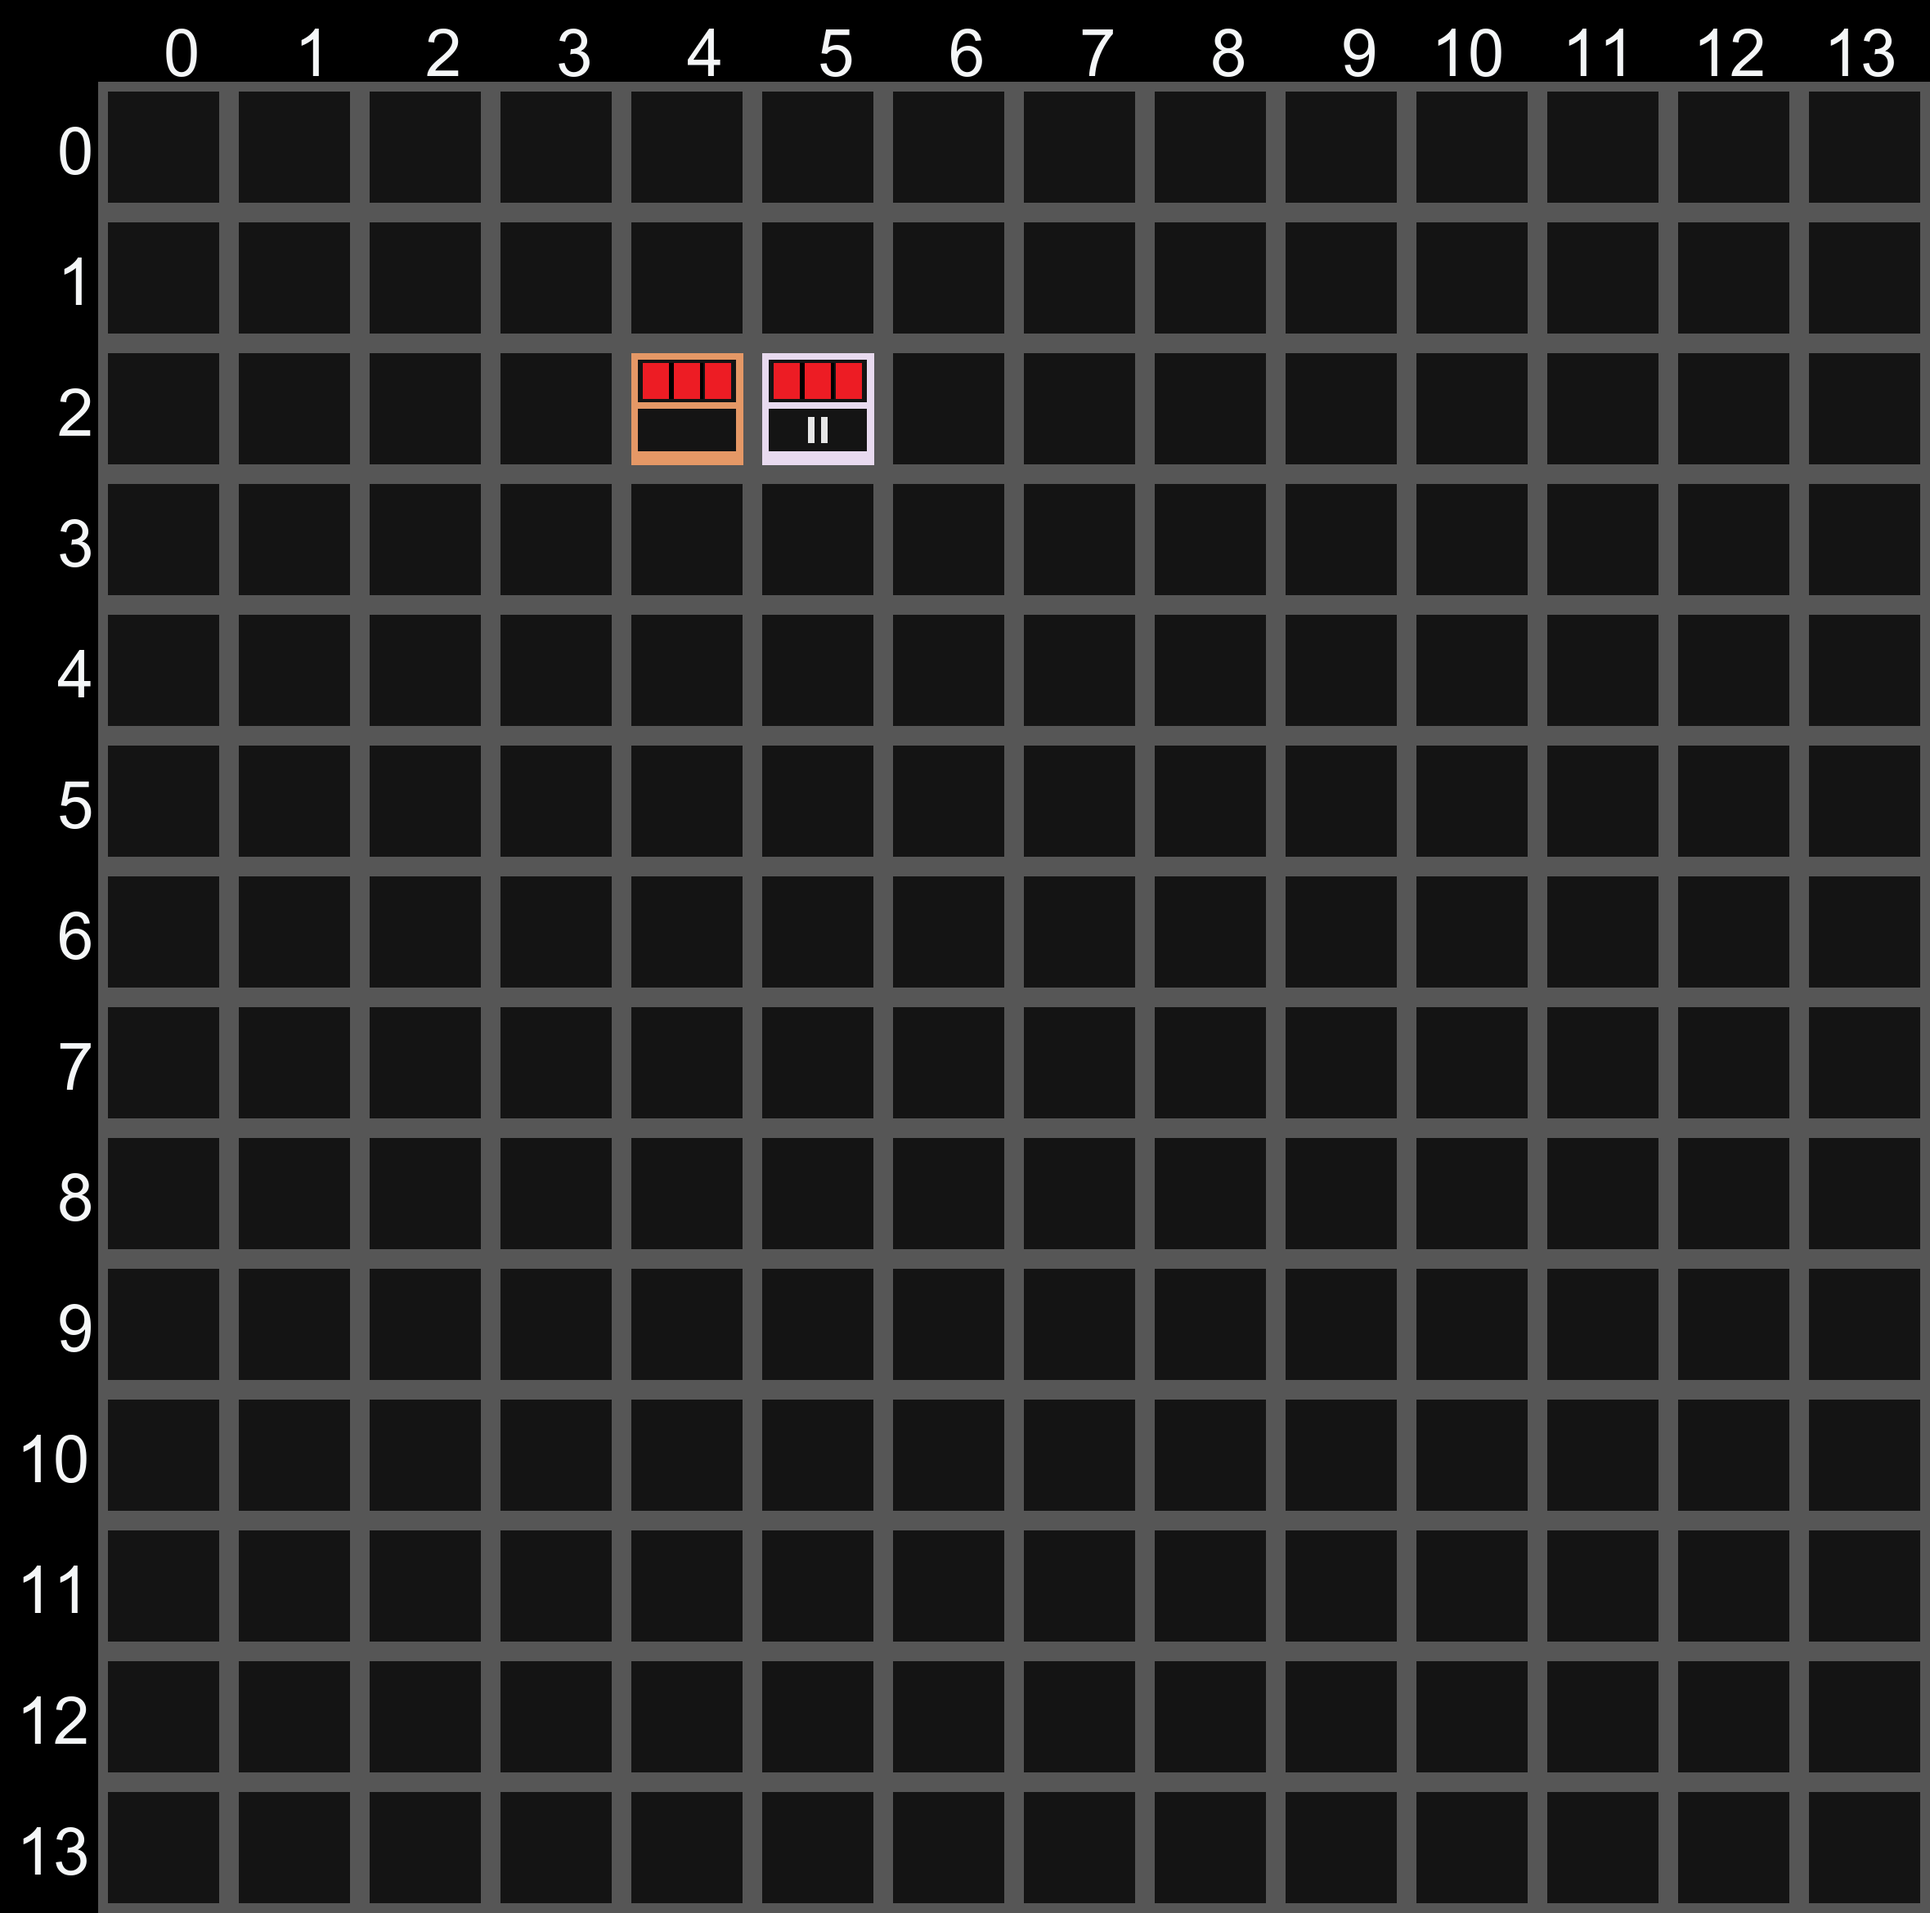
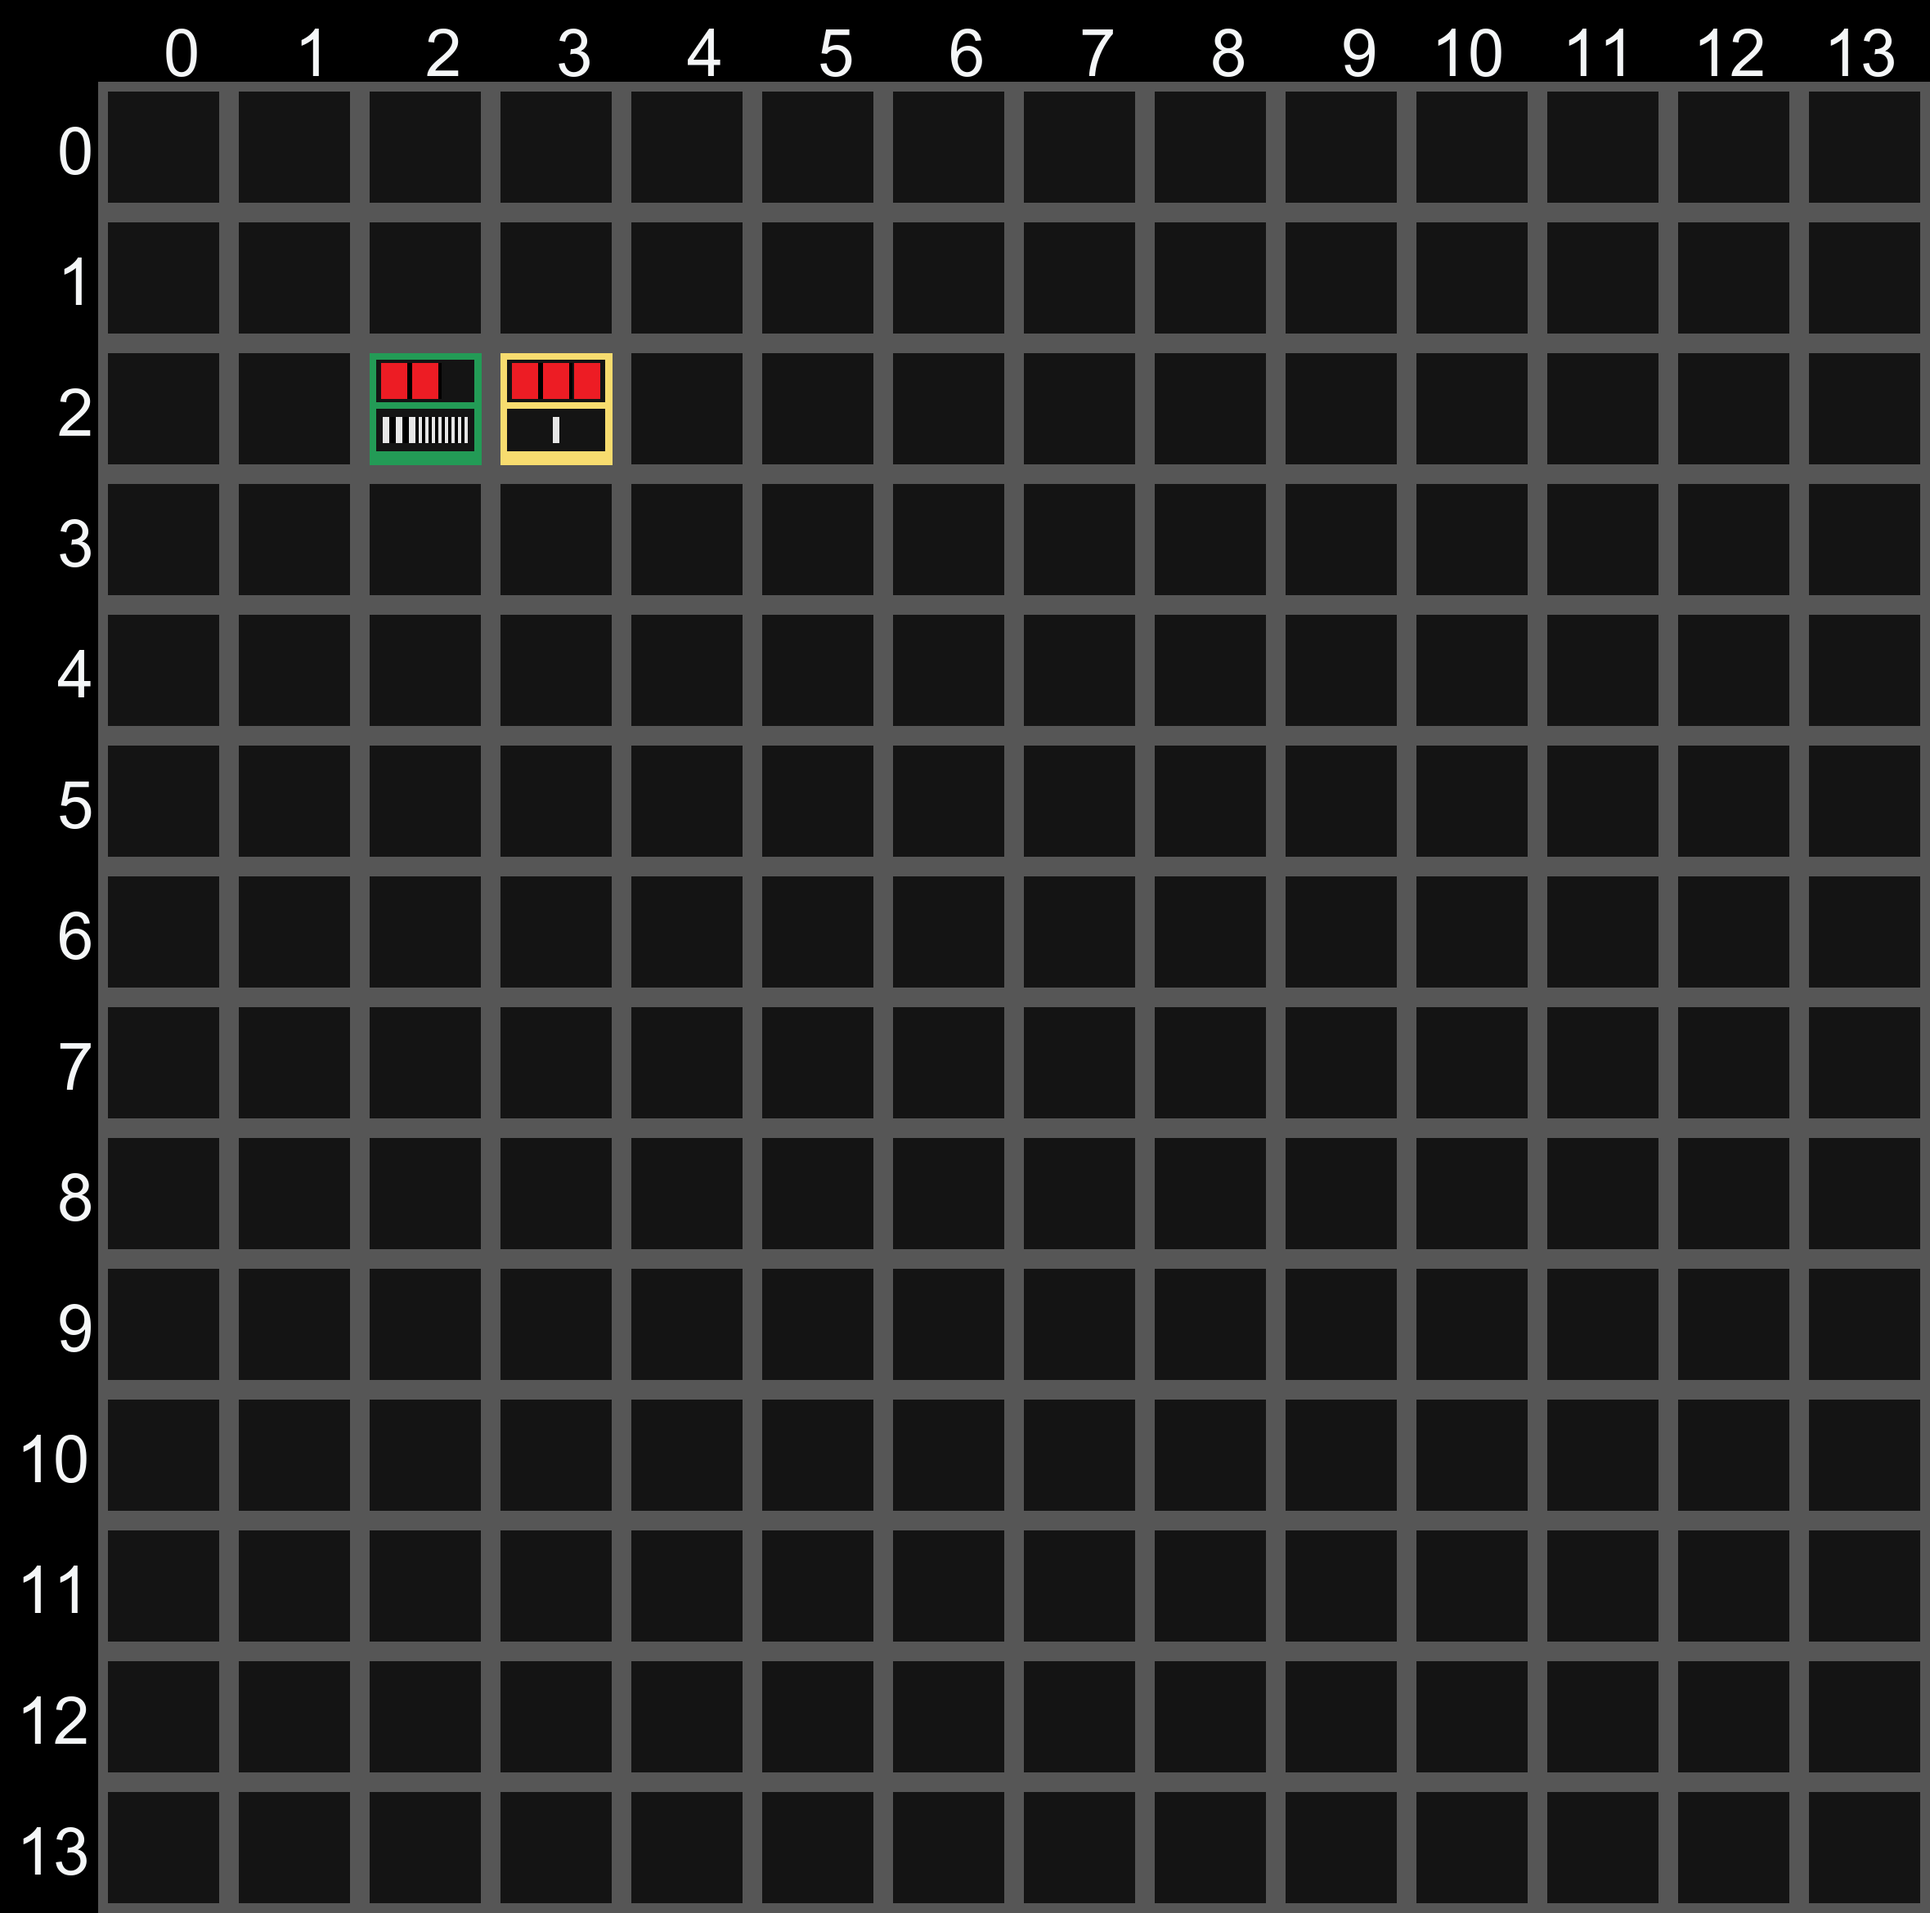
Donate/shoot cost not working, fix later

Changed region(s): [[0.1856, 0.1872, 0.464, 0.2496]]

diff --git a/run.py b/run.py
@@ -110,17 +110,18 @@ async def move(ctx, x="", y=""):
     if ctx.message.channel.name != "commands":
         return
 
-    await client.send_message(ctx.message.channel,
-                              actions.action("move", x, y, ctx))
+    response, changed = actions.action("move", x, y, ctx)
+    await client.send_message(ctx.message.channel, response)
 
-    board.create()
-    for channel in ctx.message.server.channels:
-        if channel.name == "gameboard":
-            with open("images/board.png", "rb") as f:
-                messages = []
-                async for msg in client.logs_from(channel, limit=10):
-                    await client.delete_message(msg)
-                await client.send_file(channel, f)
+    if changed:
+        board.create()
+        for channel in ctx.message.server.channels:
+            if channel.name == "gameboard":
+                with open("images/board.png", "rb") as f:
+                    messages = []
+                    async for msg in client.logs_from(channel, limit=10):
+                        await client.delete_message(msg)
+                    await client.send_file(channel, f)
 
 
 @client.command(pass_context=True)
@@ -129,17 +130,18 @@ async def shoot(ctx, x="", y=""):
     if ctx.message.channel.name != "commands":
         return
 
-    await client.send_message(ctx.message.channel,
-                              actions.action("shoot", x, y, ctx))
+    response, changed = actions.action("shoot", x, y, ctx)
+    await client.send_message(ctx.message.channel, response)
 
-    board.create()
-    for channel in ctx.message.server.channels:
-        if channel.name == "gameboard":
-            with open("images/board.png", "rb") as f:
-                messages = []
-                async for msg in client.logs_from(channel, limit=10):
-                    await client.delete_message(msg)
-                await client.send_file(channel, f)
+    if changed:
+        board.create()
+        for channel in ctx.message.server.channels:
+            if channel.name == "gameboard":
+                with open("images/board.png", "rb") as f:
+                    messages = []
+                    async for msg in client.logs_from(channel, limit=10):
+                        await client.delete_message(msg)
+                    await client.send_file(channel, f)
 
 
 @client.command(pass_context=True)
@@ -148,17 +150,18 @@ async def donate(ctx, x="", y=""):
     if ctx.message.channel.name != "commands":
         return
 
-    await client.send_message(ctx.message.channel,
-                              actions.action("donate", x, y, ctx))
+    response, changed = actions.action("donate", x, y, ctx)
+    await client.send_message(ctx.message.channel, response)
 
-    board.create()
-    for channel in ctx.message.server.channels:
-        if channel.name == "gameboard":
-            with open("images/board.png", "rb") as f:
-                messages = []
-                async for msg in client.logs_from(channel, limit=10):
-                    await client.delete_message(msg)
-                await client.send_file(channel, f)
+    if changed:
+        board.create()
+        for channel in ctx.message.server.channels:
+            if channel.name == "gameboard":
+                with open("images/board.png", "rb") as f:
+                    messages = []
+                    async for msg in client.logs_from(channel, limit=10):
+                        await client.delete_message(msg)
+                    await client.send_file(channel, f)
 
 
 # @client.command(pass_context=True)

diff --git a/actions.py b/actions.py
@@ -40,7 +40,6 @@ def action(action, x, y, ctx):
                     if data["players"][player]["hp"] == 0:
                         response += "\nThey're dead!"
                     break
-
         elif check == "donated":
             data["players"][name]["points"] -= cost
             for player in data["players"]:
@@ -49,22 +48,23 @@ def action(action, x, y, ctx):
                         data["players"][player]["points"] += 1
                         response = "You donated 1 point to {}!".format(player)
                     else:
-                        response = "{} is holding the maximum amount of points (14).".format(player)
+                        return "{} is holding the maximum amount of points (14).".format(player), False
+                    break
         elif check == "blocked":
-            return "There's already a player there."
+            return "There's already a player there.", False
         elif check == "missed":
-            return "There's nobody to shoot there."
+            return "There's nobody to shoot there.", False
         elif check == "invalid":
-            return "You don't have enough points to do that (short by {}).".format(cost)
+            return "You don't have enough points to do that (short by {}).".format(cost), False
         elif check == "nopoints":
-            return "You're all out of points until next turn."
+            return "You're all out of points until next turn.", False
         elif check == "dead":
-            return "That player is dead..."
+            return "That player is dead...", False
 
         with open("data/game.json", "w") as f:
             json.dump(data, f)
 
-        return response
+        return response, True
 
 
 def valid_location(action, points, x, y, cur_x, cur_y):
@@ -95,12 +95,12 @@ def valid_location(action, points, x, y, cur_x, cur_y):
                     return "blocked", 0
                 elif action == "shoot":
                     if data["players"][player]["hp"] > 0:
-                        return "shot", (cost - 2)
+                        return "shot", (cost - 1)
                     else:
                         return "dead", 0
                 elif action == "donate":
                     if data["players"][player]["hp"] > 0:
-                        return "donated", (cost - 2)
+                        return "donated", (cost - 1)
                     else:
                         return "dead", 0
 
